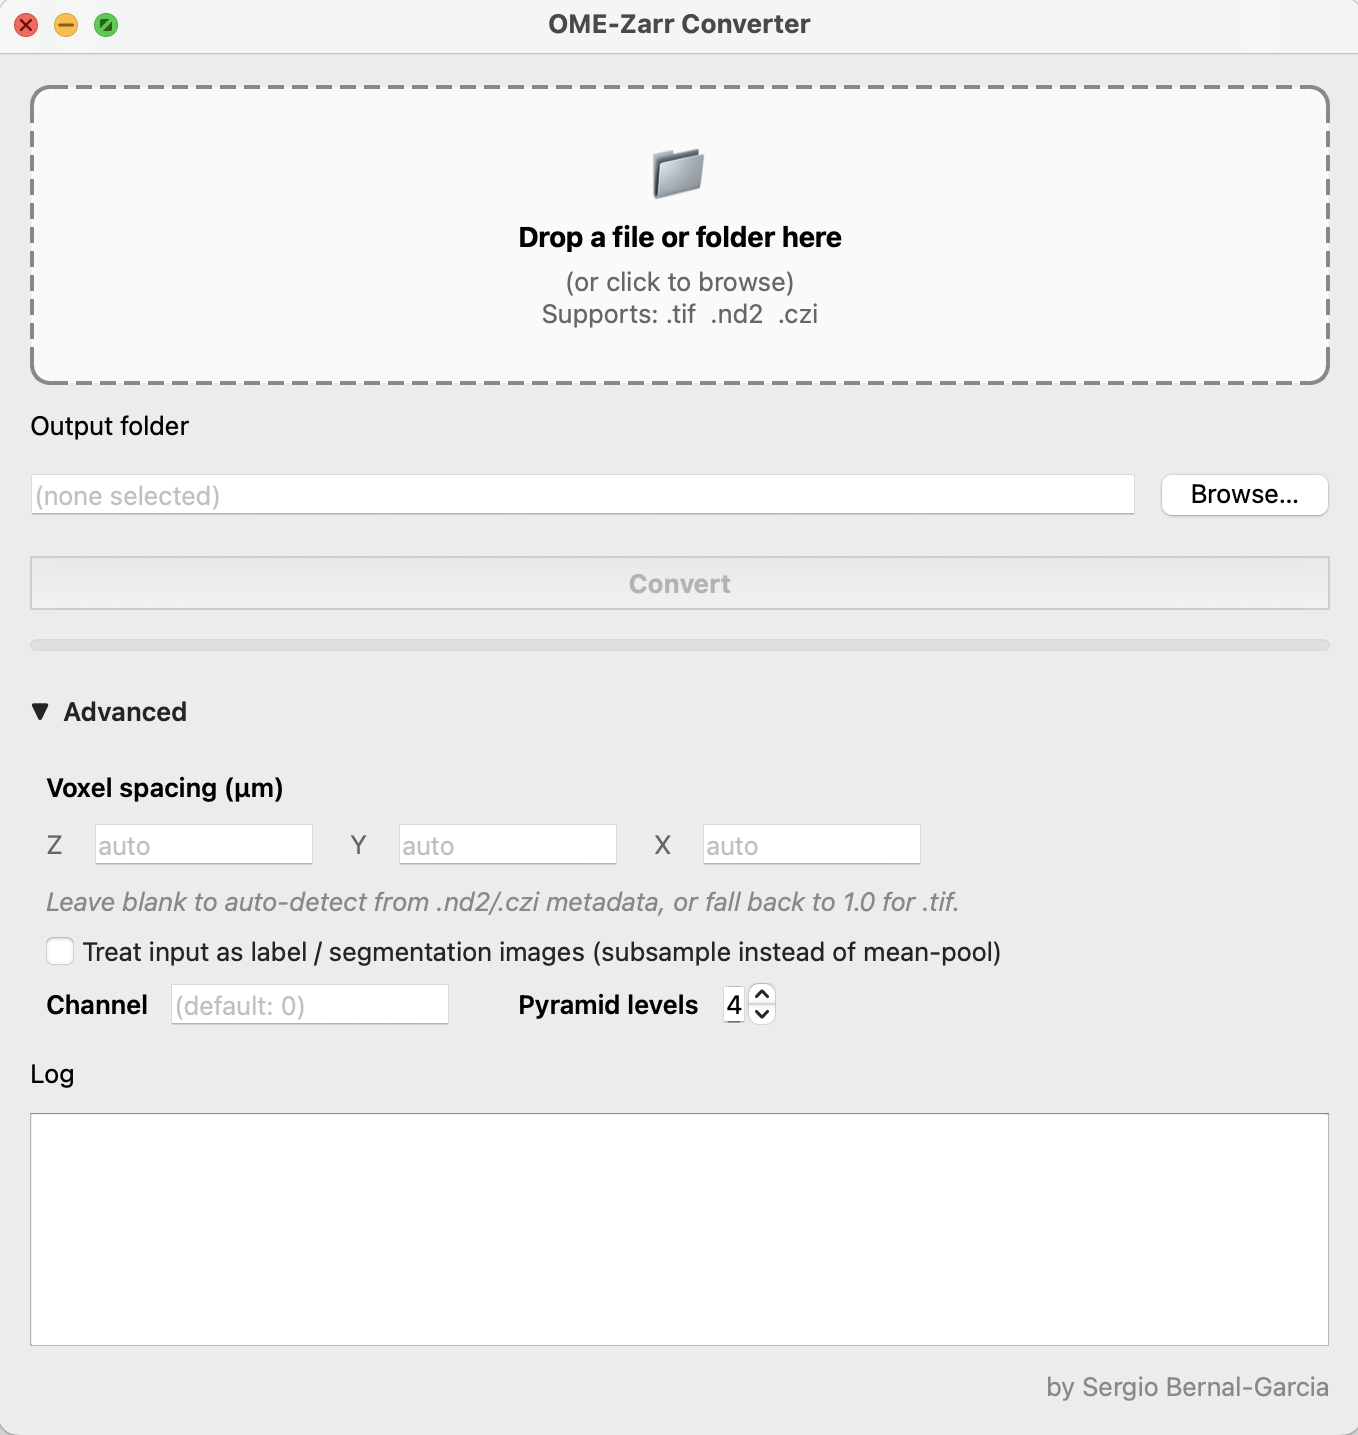
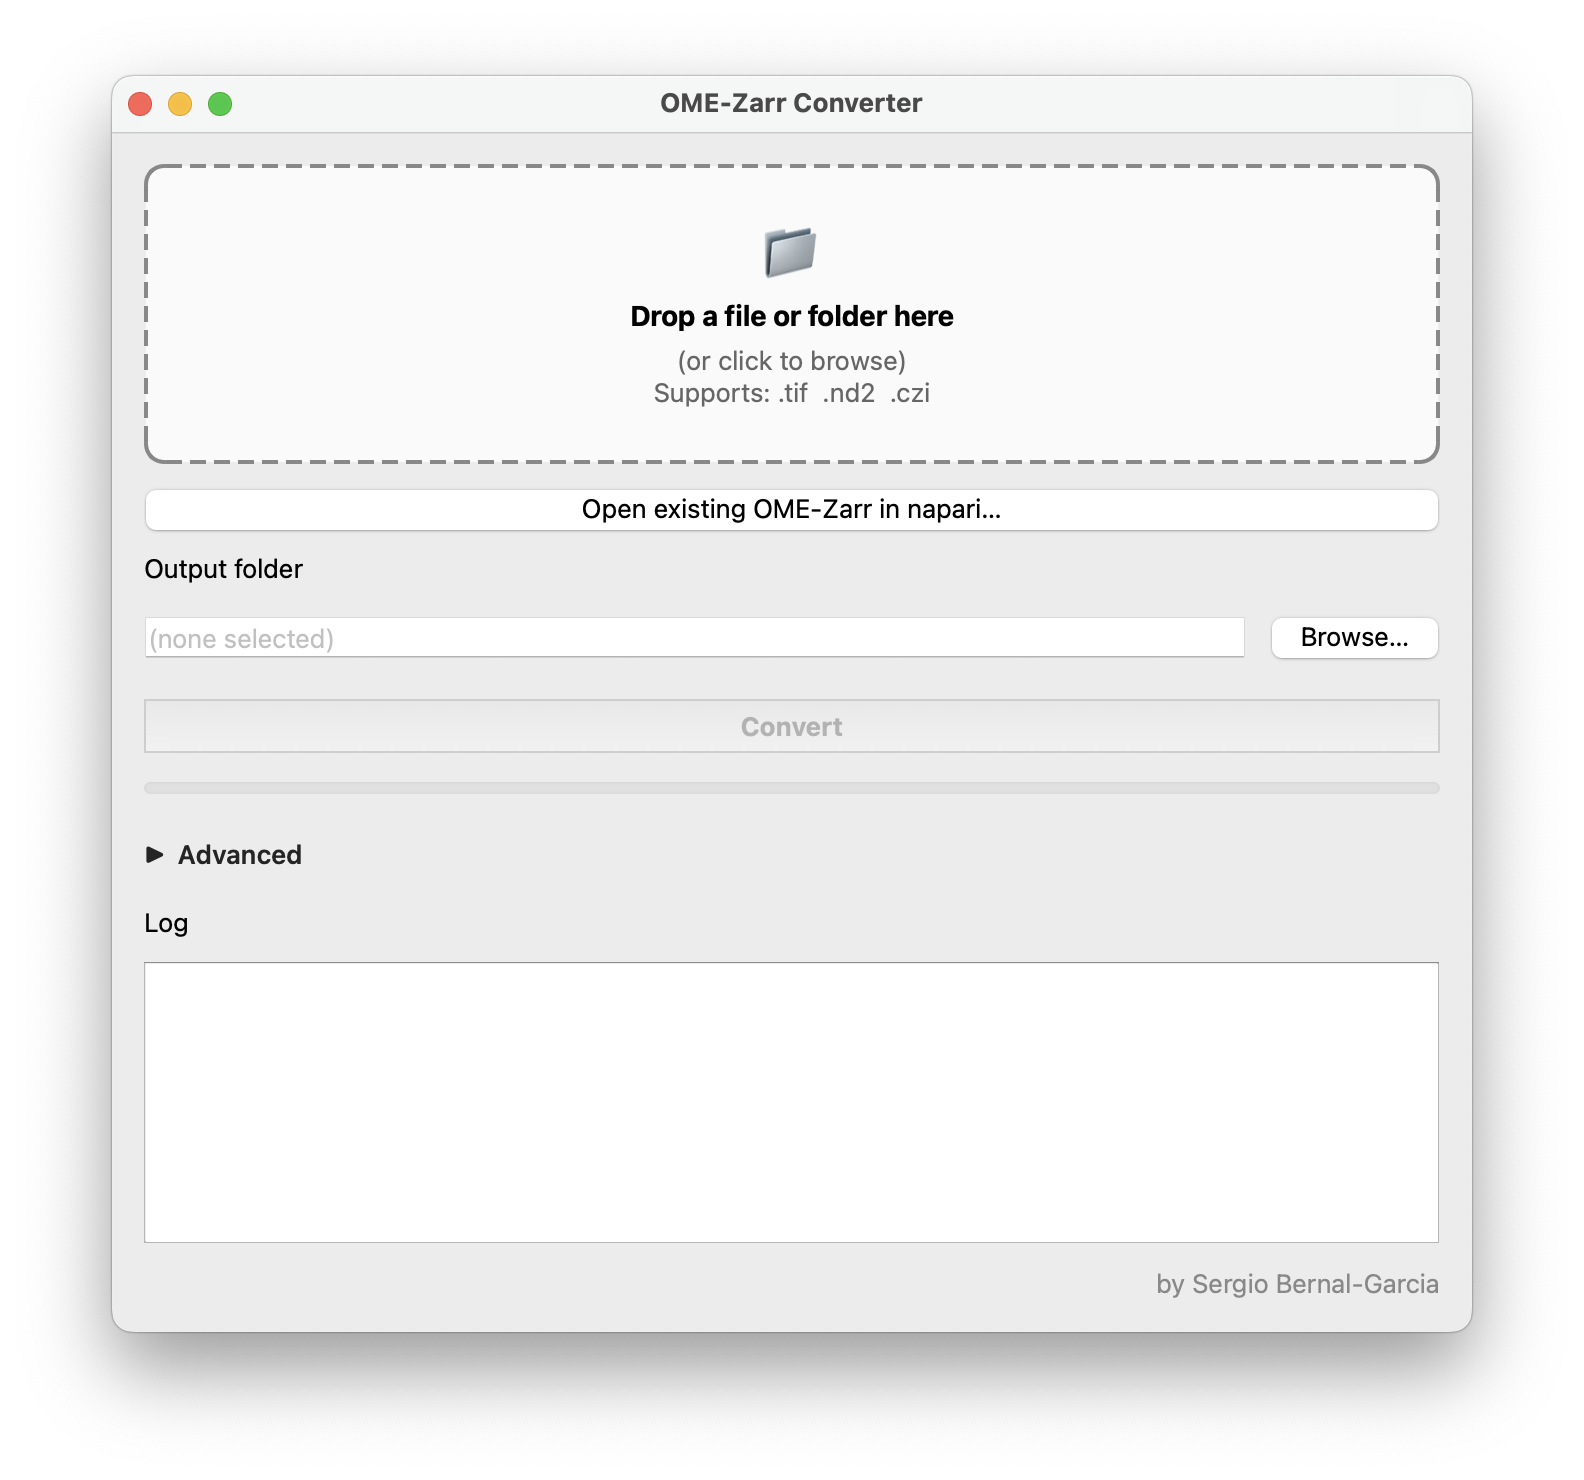
Update screenshots: refresh main window, add open-existing dialog

diff --git a/README.md b/README.md
@@ -61,6 +61,8 @@ After that, the **Open in napari** button next to each result launches a separat
 
 Already have a converted `.ome.zarr`? You can view it in napari without reconverting:
 
+![Open existing OME-Zarr dialog](docs/open-existing-dialog.png)
+
 1. Click **Open existing OME-Zarr in napari…**, or **drag an `.ome.zarr` folder** onto the drop area.
 2. In the picker, choose the **3D volume resolution** — the list shows the pyramid levels actually present in your file, with their dimensions.
 3. *(Optional)* overlay a **labels / segmentation** store. If a matching `<name>_labels.ome.zarr` sits next to the image, it's filled in automatically; otherwise click **Add labels…**. You can toggle **Smooth 3D labels** and a **Contour** width.
